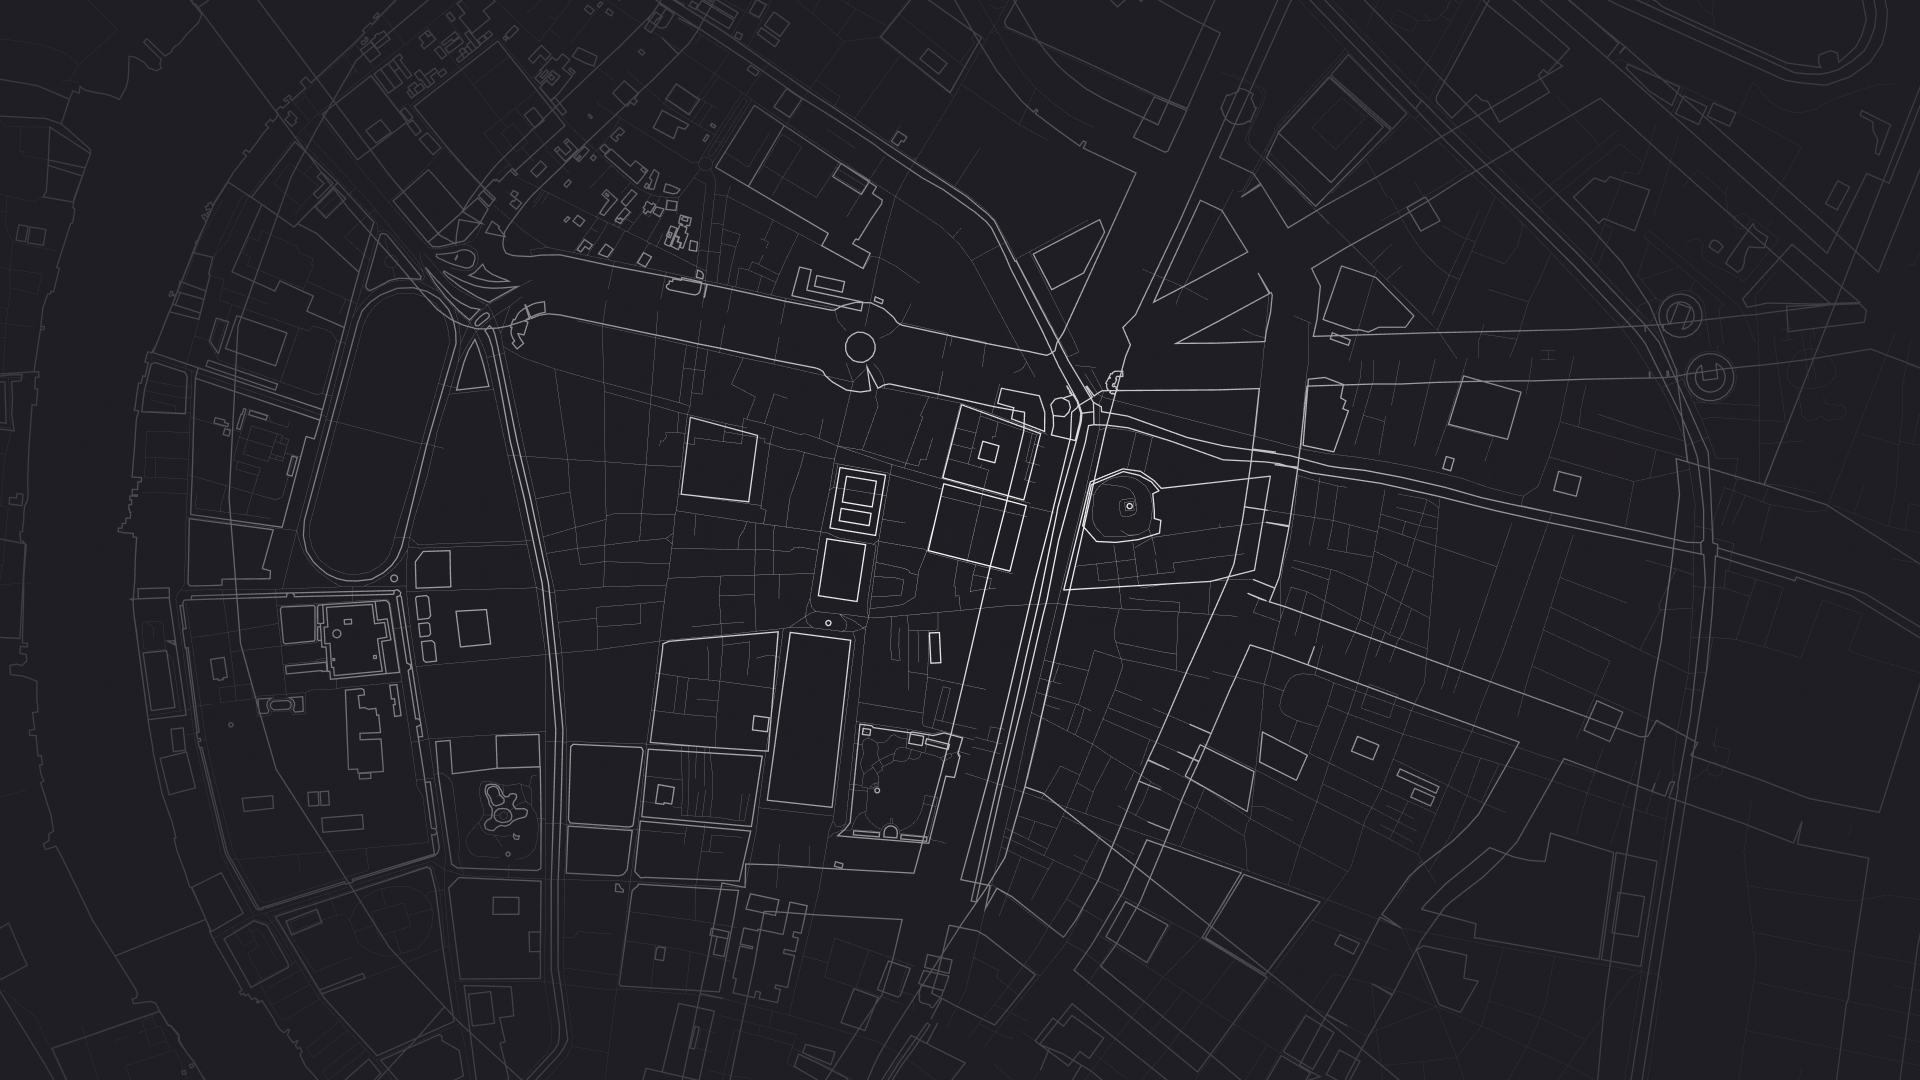
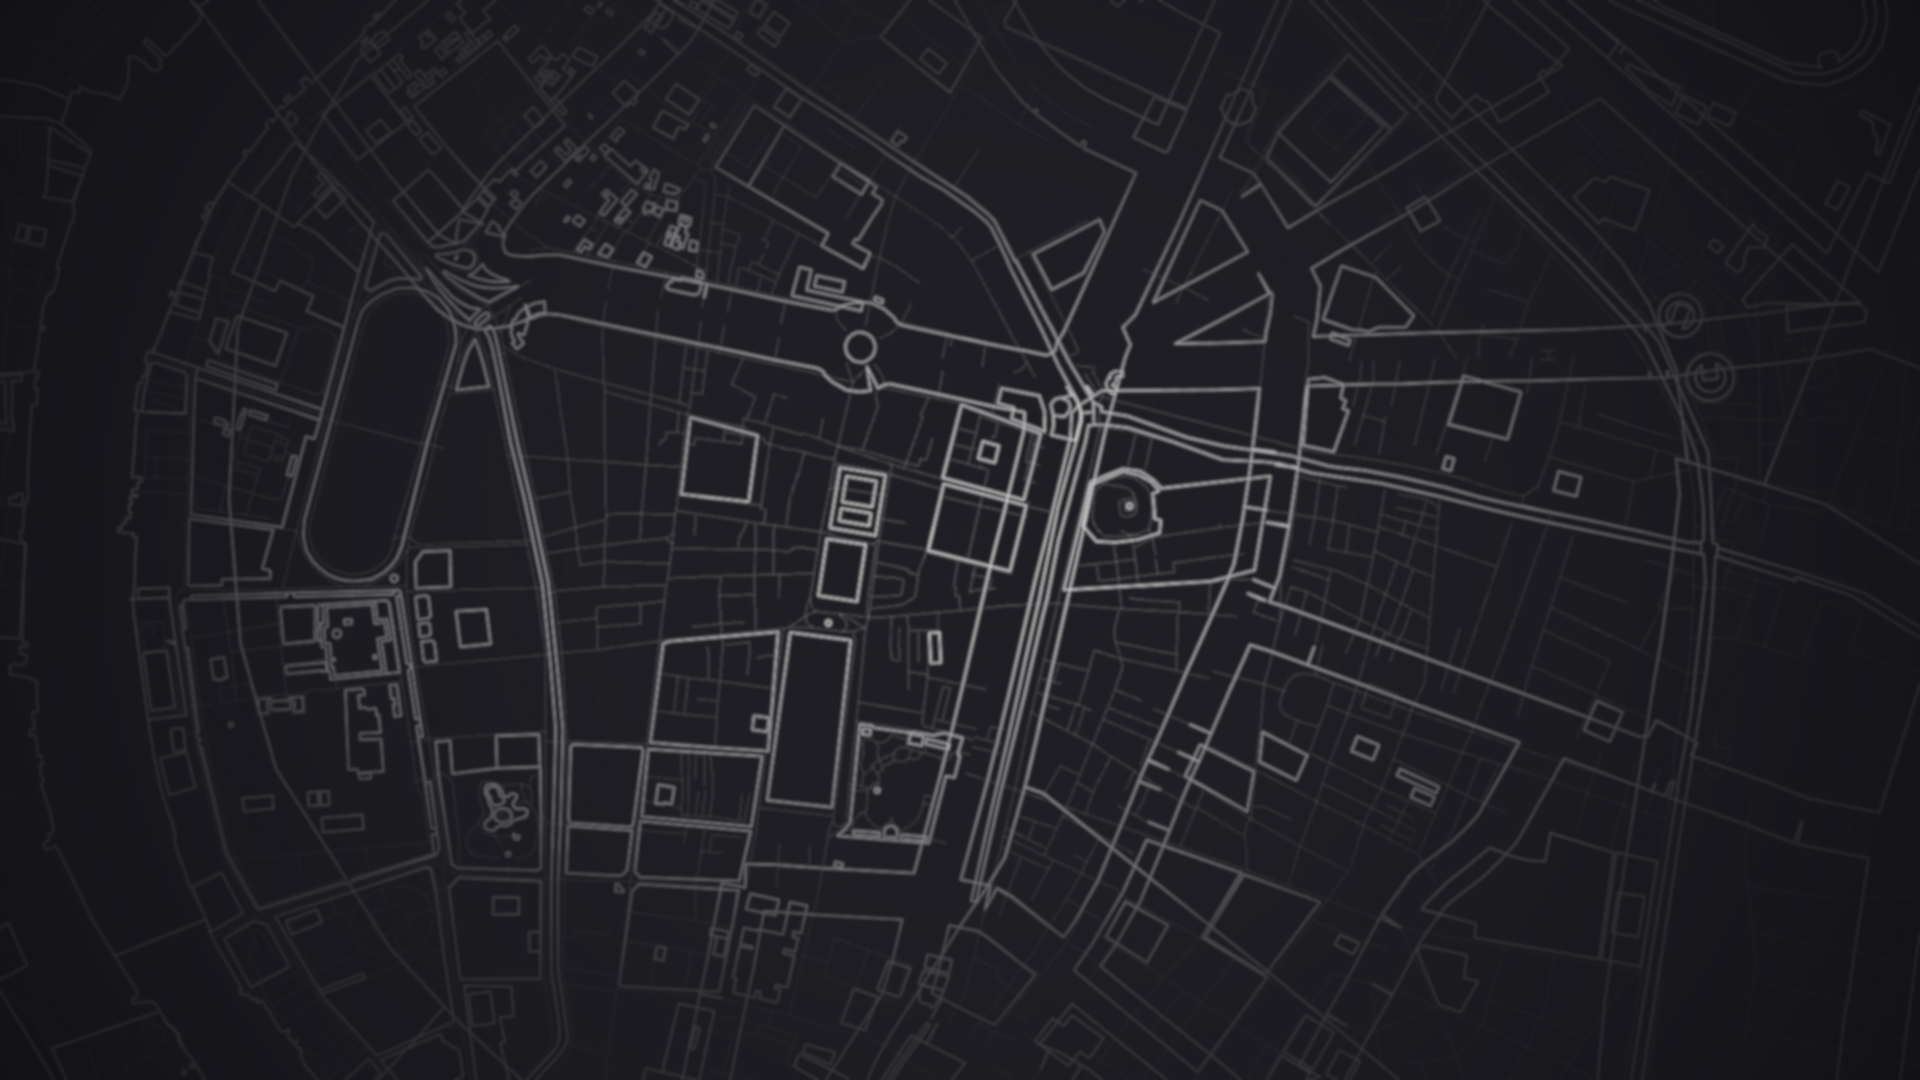
fix modal & touch up afterlife section

diff --git a/index.html b/index.html
@@ -11,6 +11,7 @@
     <link rel="stylesheet" href="Styles/lunarnauts.css" />
     <link rel="stylesheet" href="Styles/afterlife.css" />
     <link rel="stylesheet" href="Styles/timelesstales.css" />
+    <link rel="stylesheet" href="Styles/growinc.css" />
     <link
       rel="stylesheet"
       href="https://cdnjs.cloudflare.com/ajax/libs/font-awesome/4.7.0/css/font-awesome.min.css"
@@ -179,7 +180,9 @@
 
     <!-- Lunarnauts Modal -->
     <div id="lunarnauts-trailer-modal" class="trailer-modal">
-      <span id="lunarnauts-trailer-modal-close" class="trailer-modal-close">&times;</span>
+      <span id="lunarnauts-trailer-modal-close" class="trailer-modal-close"
+        >&times;</span
+      >
       <!-- Modal content -->
       <div class="trailer-modal-content">
         <iframe
@@ -224,13 +227,14 @@
         </div>
       </div>
       <div class="game-info-container">
-        <div class="game-info-details">
-          <img src="Images/lunarnauts_banana.png" alt="afterlife_plant" />
-          <!-- replace this -->
-          <div class="game-quote" id="afterlife-quote">Ba. na. na.</div>
-          <div class="game-para">
-            Lunarnauts is a 2D resource management game where you control a
-            group of hot-headed apes trying to get to the moon!
+        <div class="game-info-details" id="afterlife-game-info-details">
+          <!-- add aim image maybe -->
+          <div class="game-quote" id="afterlife-quote">Pew! Pew!</div>
+          <div class="game-para" id="afterlife-para">
+            AfterLife is a top-down RTS set in a post-apocalyptic world filled
+            with zombies. Your job is to control a group of units and kill all
+            zombies using strategies and tactics in a close-quarters combat
+            environment.
           </div>
         </div>
         <button class="game-button" id="afterlife-button">View Project</button>
@@ -239,7 +243,9 @@
 
     <!-- Afterlife Modal -->
     <div id="afterlife-trailer-modal" class="trailer-modal">
-      <span id="afterlife-trailer-modal-close" class="trailer-modal-close">&times;</span>
+      <span id="afterlife-trailer-modal-close" class="trailer-modal-close"
+        >&times;</span
+      >
       <!-- Modal content -->
       <div class="trailer-modal-content">
         <iframe
@@ -249,8 +255,6 @@
         </iframe>
       </div>
     </div>
-
-
 
     <!-- Timeless Tales -->
     <div class="game-background" id="timeless-tales"></div>

diff --git a/Javascripts/trailerModal.js b/Javascripts/trailerModal.js
@@ -1,33 +1,48 @@
-var closeButton = document.getElementsByClassName('trailer-modal-close');
-console.log(closeButton);
 var iframe = document.querySelectorAll('iframe');
 
 // lunarnauts
 var lunarnautsModal = document.getElementById('lunarnauts-trailer-modal');
 var lunarnautsWatchTrailer = document.getElementById('lunarnauts-cta');
+var lunarnautsCloseButton = document.getElementsByClassName(
+  'trailer-modal-close'
+)[0];
 
 lunarnautsWatchTrailer.onclick = function () {
   lunarnautsModal.style.display = 'block';
 };
 
+lunarnautsCloseButton.onclick = function () {
+  lunarnautsModal.style.display = 'none';
+  $('iframe').each(function () {
+    this.contentWindow.postMessage(
+      '{"event":"command","func":"stopVideo","args":""}',
+      '*'
+    );
+  });
+};
+
 // afterlife
 var afterlifeModal = document.getElementById('afterlife-trailer-modal');
 var afterlifeWatchTrailer = document.getElementById('afterlife-cta');
+var afterlifeCloseButton = document.getElementsByClassName(
+  'trailer-modal-close'
+)[1];
 
 afterlifeWatchTrailer.onclick = function () {
   afterlifeModal.style.display = 'block';
 };
 
-// // global
-// afterlifeModal.style.display = 'none';
-// lunarnautsModal.style.display = 'none';
-// $('iframe').each(function () {
-//   this.contentWindow.postMessage(
-//     '{"event":"command","func":"stopVideo","args":""}',
-//     '*'
-//   );
-// });
+afterlifeCloseButton.onclick = function () {
+  afterlifeModal.style.display = 'none';
+  $('iframe').each(function () {
+    this.contentWindow.postMessage(
+      '{"event":"command","func":"stopVideo","args":""}',
+      '*'
+    );
+  });
+};
 
+// global
 window.onclick = function (event) {
   if (event.target == afterlifeModal || event.target == lunarnautsModal) {
     afterlifeModal.style.display = 'none';

diff --git a/Styles/afterlife.css b/Styles/afterlife.css
@@ -1,4 +1,9 @@
 /* Afterlife */
+#afterlife {
+  background-image: url('../Images/Wallpaper/Afterlife_Wallpaper.png');
+  /* blur this image maybe */
+}
+
 #afterlife-mascot-container {
   width: 100%;
   height: 95vh;
@@ -7,14 +12,15 @@
 }
 
 #afterlife-logo {
-  width: 150%;
+  width: 130%;
+  margin-top: -175px;
 }
 
 #afterlife-cta {
   border: 8px solid #61d7f8;
   box-shadow: 10px 10px black, 10px 10px 15px #61e6f898, 0 0 15px #61e6f898;
   transition: 0.3s ease-in-out;
-  margin-top: -50px;
+  margin-top: -25px;
 }
 
 #afterlife-cta:hover {
@@ -22,7 +28,7 @@
 }
 
 #afterlife-watch-button {
-  filter: invert(80%) sepia(67%) saturate(419%) hue-rotate(340deg)
+  filter: invert(75%) sepia(33%) saturate(846%) hue-rotate(158deg)
     brightness(100%) contrast(95%);
   /* https://codepen.io/sosuke/pen/Pjoqqp */
   /* img color filter change */
@@ -36,6 +42,10 @@ img[alt='lunarnauts_banana'] {
   width: 150px;
   align-self: center;
   margin: 30px 0;
+}
+
+#afterlife-game-info-details {
+  backdrop-filter: blur(2px);
 }
 
 #afterlife-quote {

diff --git a/Styles/index.css b/Styles/index.css
@@ -339,20 +339,6 @@
   height: 95vh;
 }
 
-#lunarnauts {
-  background-image: url('../Images/Wallpaper/Lunarnauts_Wallpaper.png');
-}
-#afterlife {
-  background-image: url('../Images/Wallpaper/Afterlife_Wallpaper.png');
-}
-#timeless-tales {
-  background-image: url('../Images/Wallpaper/TimelessTale_Wallpaper.png');
-}
-#grow-inc {
-  background-image: url('../Images/Wallpaper/Growinc_Wallpaper.png');
-  background-size: unset;
-}
-
 .game-center-cta {
   width: 30vw;
   display: flex;
@@ -489,6 +475,7 @@
 
 .game-para {
   font-size: 22px;
+  line-height: 200%;
   color: white;
 }
 

diff --git a/Styles/lunarnauts.css b/Styles/lunarnauts.css
@@ -1,4 +1,8 @@
 /* Lunarnauts */
+#lunarnauts {
+  background-image: url('../Images/Wallpaper/Lunarnauts_Wallpaper.png');
+}
+
 #lunarnauts-mascot-container {
   width: 100%;
   height: 95vh;

diff --git a/Styles/growinc.css b/Styles/growinc.css
@@ -1,0 +1,5 @@
+/* grow-inc */
+#grow-inc {
+  background-image: url('../Images/Wallpaper/Growinc_Wallpaper.png');
+  background-size: unset;
+}

diff --git a/Styles/timelesstales.css b/Styles/timelesstales.css
@@ -1,0 +1,4 @@
+/* timelesstales */
+#timeless-tales {
+  background-image: url('../Images/Wallpaper/TimelessTale_Wallpaper.png');
+}
